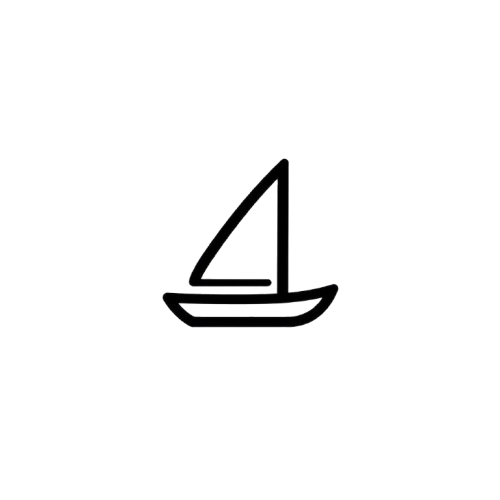
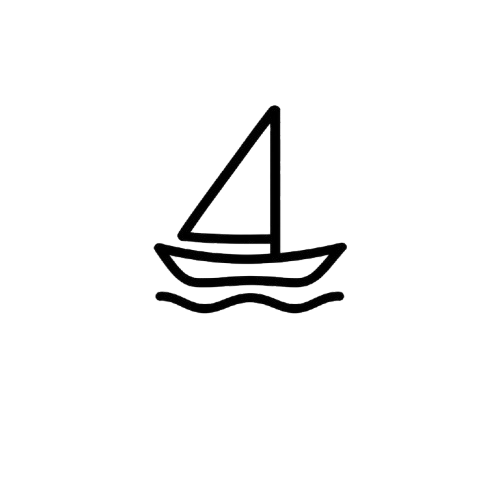
ui: mobile nav menu + updated sailwise mark

Changed region(s): [[0.3, 0.21, 0.69, 0.66]]

diff --git a/src/components/landing/SiteHeader.tsx b/src/components/landing/SiteHeader.tsx
@@ -14,6 +14,7 @@ export default function SiteHeader() {
   const [scrolled, setScrolled] = useState(false);
   const [progress, setProgress] = useState(0);
   const [active, setActive] = useState<string>('');
+  const [menuOpen, setMenuOpen] = useState(false);
 
   useEffect(() => {
     const onScroll = () => {
@@ -48,6 +49,7 @@ export default function SiteHeader() {
     const el = document.querySelector(href);
     if (!el) return;
     e.preventDefault();
+    setMenuOpen(false);
     el.scrollIntoView({ behavior: 'smooth', block: 'start' });
     history.replaceState(null, '', href);
     setActive(href);
@@ -71,12 +73,12 @@ export default function SiteHeader() {
         }}
       >
         <div
-          className="max-w-7xl mx-auto px-6 grid grid-cols-[1fr_auto_1fr] items-center transition-all duration-200"
+          className="max-w-7xl mx-auto px-4 sm:px-6 grid grid-cols-[1fr_auto_1fr] items-center transition-all duration-200"
           style={{ height: scrolled ? 60 : 68 }}
         >
           <Link href="/" className="justify-self-start flex items-center gap-2 group">
-            <img src="/brand/sailwise-mark.png" alt="Sailwise" className="h-14 w-14 rounded object-cover transition-transform duration-200 group-hover:scale-105" />
-            <span className="text-xl font-semibold tracking-tight" style={{ color: '#0A0A0A' }}>
+            <img src="/brand/sailwise-mark.png" alt="Sailwise" className="h-12 w-12 sm:h-14 sm:w-14 rounded object-cover transition-transform duration-200 group-hover:scale-105" />
+            <span className="hidden sm:inline text-xl font-semibold tracking-tight" style={{ color: '#0A0A0A' }}>
               Sailwise
             </span>
           </Link>
@@ -97,20 +99,63 @@ export default function SiteHeader() {
 
           <div className="justify-self-end flex items-center gap-2 sm:gap-3">
             <Link
-              href="/login"
-              className="hidden sm:inline-block text-sm font-medium px-3 py-2 rounded-lg transition-colors hover:bg-black/[0.04]"
-              style={{ color: '#555555' }}
-            >
-              Log in
-            </Link>
-            <Link
               href="/signup"
               className="text-sm font-semibold px-4 py-2 sm:px-5 sm:py-2.5 rounded-lg btn-primary"
             >
               Start Free
             </Link>
+            <button
+              type="button"
+              aria-label={menuOpen ? 'Close menu' : 'Open menu'}
+              aria-expanded={menuOpen}
+              onClick={() => setMenuOpen((o) => !o)}
+              className="md:hidden flex h-9 w-9 items-center justify-center rounded-lg border transition-colors hover:bg-black/[0.04]"
+              style={{ borderColor: '#E0E0E0' }}
+            >
+              <svg width="18" height="18" viewBox="0 0 24 24" fill="none" stroke="currentColor" strokeWidth={1.75} strokeLinecap="round">
+                {menuOpen ? (
+                  <>
+                    <path d="M6 6l12 12" />
+                    <path d="M18 6L6 18" />
+                  </>
+                ) : (
+                  <>
+                    <path d="M4 7h16" />
+                    <path d="M4 12h16" />
+                    <path d="M4 17h16" />
+                  </>
+                )}
+              </svg>
+            </button>
           </div>
         </div>
+
+        {menuOpen && (
+          <div
+            className="md:hidden border-t px-4 py-4 space-y-1 backdrop-blur-md"
+            style={{ borderColor: '#E7E7E7', background: scrolled ? 'rgba(255,255,255,0.97)' : 'rgba(255,255,255,0.95)' }}
+          >
+            {LINKS.map((l) => (
+              <a
+                key={l.href}
+                href={l.href}
+                onClick={(e) => scrollTo(e, l.href)}
+                className={`block px-3 py-2.5 rounded-lg text-sm font-medium transition-colors hover:bg-black/[0.04] ${active === l.href ? 'bg-black/[0.04]' : ''}`}
+                style={{ color: active === l.href ? '#000' : '#333333' }}
+              >
+                {l.label}
+              </a>
+            ))}
+            <Link
+              href="/login"
+              onClick={() => setMenuOpen(false)}
+              className="block px-3 py-2.5 rounded-lg text-sm font-medium hover:bg-black/[0.04]"
+              style={{ color: '#555555', borderTop: '1px solid #EDEDED' }}
+            >
+              Log in
+            </Link>
+          </div>
+        )}
       </nav>
     </>
   );
